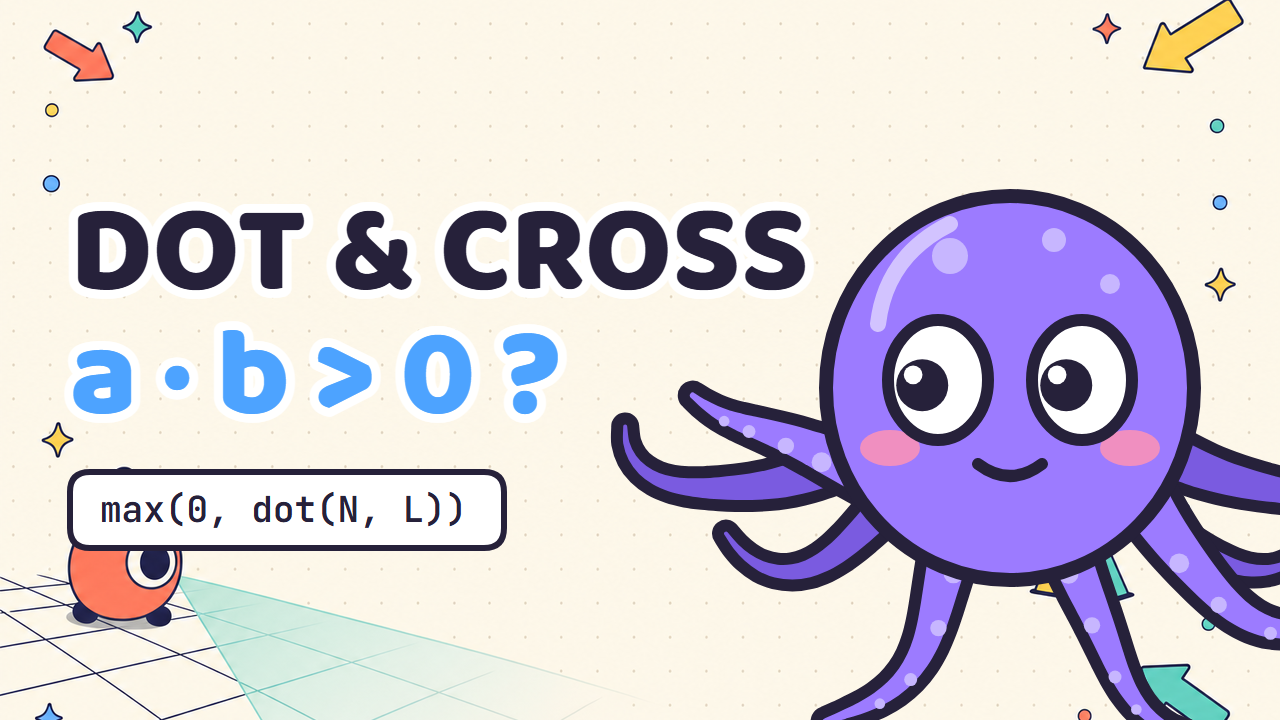
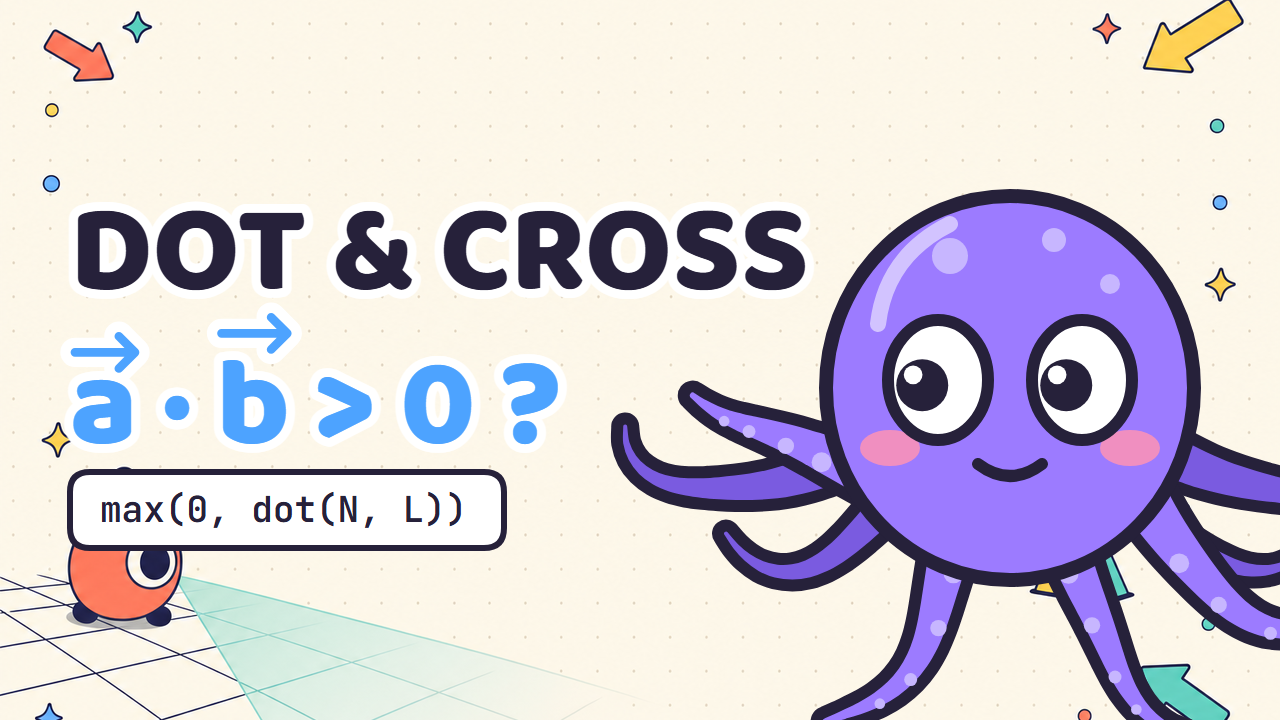
fix(video): put arrows on the vectors in the dot-and-cross thumbnail
The thumbnail title now uses the {a} marker like the lesson video, and a line
with arrows gets 30 px of headroom so the arrows clear the line above. The
vector-basics thumbnail renders byte for byte as before.

Changed region(s): [[0.0312, 0.4278, 0.4375, 0.6417]]

diff --git a/video/src/thumbnail/Thumbnail.tsx b/video/src/thumbnail/Thumbnail.tsx
@@ -12,6 +12,10 @@ export type ThumbnailProps = {
   code?: string;
 };
 
+// A vector arrow (`{a}`, unlike the `√{x}` radical) sits above its line and would touch the line above.
+const ARROW_HEADROOM = 30;
+const hasArrow = (line: string) => /(^|[^√])\{[^}]+\}/.test(line);
+
 // A YouTube thumbnail: title lines stacked on the left, Inko on the right
 // pointing at them, over an optional background. One thumbnail serves every
 // audio track, so keep the words language-neutral (symbols, terms, math).
@@ -20,21 +24,29 @@ export function Thumbnail({ background, lines, code }: ThumbnailProps) {
   const colors = [pal.text, pal.sky, pal.hero];
   // The block sits low-left: generated backgrounds keep their decorations in the corners.
   const top = 240 - (lines.length > 3 ? 120 : 0);
+  // Baseline of each line; a line with arrows gets headroom and the lines below it follow. The code
+  // chip stays put: backgrounds keep a mascot under it.
+  let shift = 0;
+  const ys = lines.map((line, i) => {
+    if (i > 0 && hasArrow(line)) shift += ARROW_HEADROOM;
+    return top + 48 + i * 124 + shift;
+  });
+  const bottom = top + 48 + lines.length * 124;
   return (
     <ThemeContext.Provider value={pal}>
       <AbsoluteFill style={{ backgroundColor: pal.bg }}>
         {background ? <Img src={staticFile(background)} style={{ width: "100%", height: "100%", objectFit: "cover" }} /> : null}
         <svg viewBox={`0 0 ${W} ${H}`} style={{ position: "absolute", inset: 0 }}>
           {lines.map((line, i) => (
-            <Title key={i} x={70} y={top + 48 + i * 124} size={124} anchor="start" weight={800}
+            <Title key={i} x={70} y={ys[i]!} size={124} anchor="start" weight={800}
               color={colors[i % colors.length]} halo="#FFFFFF">
               {line}
             </Title>
           ))}
           {code ? (
             <g>
-              <Box x={70} y={top + 48 + lines.length * 124 - 64} w={code.length * 22 + 60} h={76} r={20} fill={pal.panel} strokeWidth={6} />
-              <Code x={100} y={top + 48 + lines.length * 124 - 14} size={36}>{code}</Code>
+              <Box x={70} y={bottom - 64} w={code.length * 22 + 60} h={76} r={20} fill={pal.panel} strokeWidth={6} />
+              <Code x={100} y={bottom - 14} size={36}>{code}</Code>
             </g>
           ) : null}
           <Inko x={1010} y={400} scale={2} pose="point" pointAt={{ x: 690, y: 400 }} lookAt={{ x: 560, y: 300 }} seed={3} />

diff --git a/docs/rule-render-video.md b/docs/rule-render-video.md
@@ -50,7 +50,7 @@ surprises you.
   - `pnpm video:lint` warns on `√(…)`, on `√25`, and on any `√` followed by something other than a space or `{`.
   - A radicand cannot contain another marker: `√{{a} · {a}}` throws. No lesson needs it yet.
   - The `√` stays in the text inside an invisible `<tspan>` so the line keeps its width and the drawn radical sits in that box. Place anything that follows the string with `vecPlain()`, which keeps the `√`: `length.tsx` puts `= √{25} = 5` after `√{9 + 16}` this way.
-- **Thumbnails use the same markers.** `thumbnail.lines` in `youtube.json` render through `Title`, so write `√{2}`, not `√2`, or the thumbnail shows the bare glyph that reads as a check mark. `pnpm video:lint` only checks `strings.en.json`, so look at the thumbnail itself. After a change: `pnpm thumbnail <slug> --pick <n>` (the number of the chosen background; the old file is reproduced byte for byte by a render with the old lines), then `pnpm youtube <slug>` to refresh the copy in `media/`.
+- **Thumbnails use the same markers.** `thumbnail.lines` in `youtube.json` render through `Title`, so write `√{2}`, not `√2`, and `{a} · {b}` for two vectors (the thumbnail itself already follows the arrow rule; a line with arrows gets 30 px of headroom in `Thumbnail.tsx` so the arrows clear the line above), or the thumbnail shows the bare glyph that reads as a check mark. `pnpm video:lint` only checks `strings.en.json`, so look at the thumbnail itself. After a change: `pnpm thumbnail <slug> --pick <n>` (the number of the chosen background; the old file is reproduced byte for byte by a render with the old lines), then `pnpm youtube <slug>` to refresh the copy in `media/`.
 - **`·` and `×` are only for vectors.** A scalar times something is `*` (`k * v`, `(4, −2) * −1.5`). `pnpm video:lint` flags numbers around `·` or `×`.
 - **Vector arrows follow one rule:** an arrow is math notation for a vector, code stays plain (`a.x`, `dot(a, b)`). Details in `video/src/kit/STYLE.md`.
 
